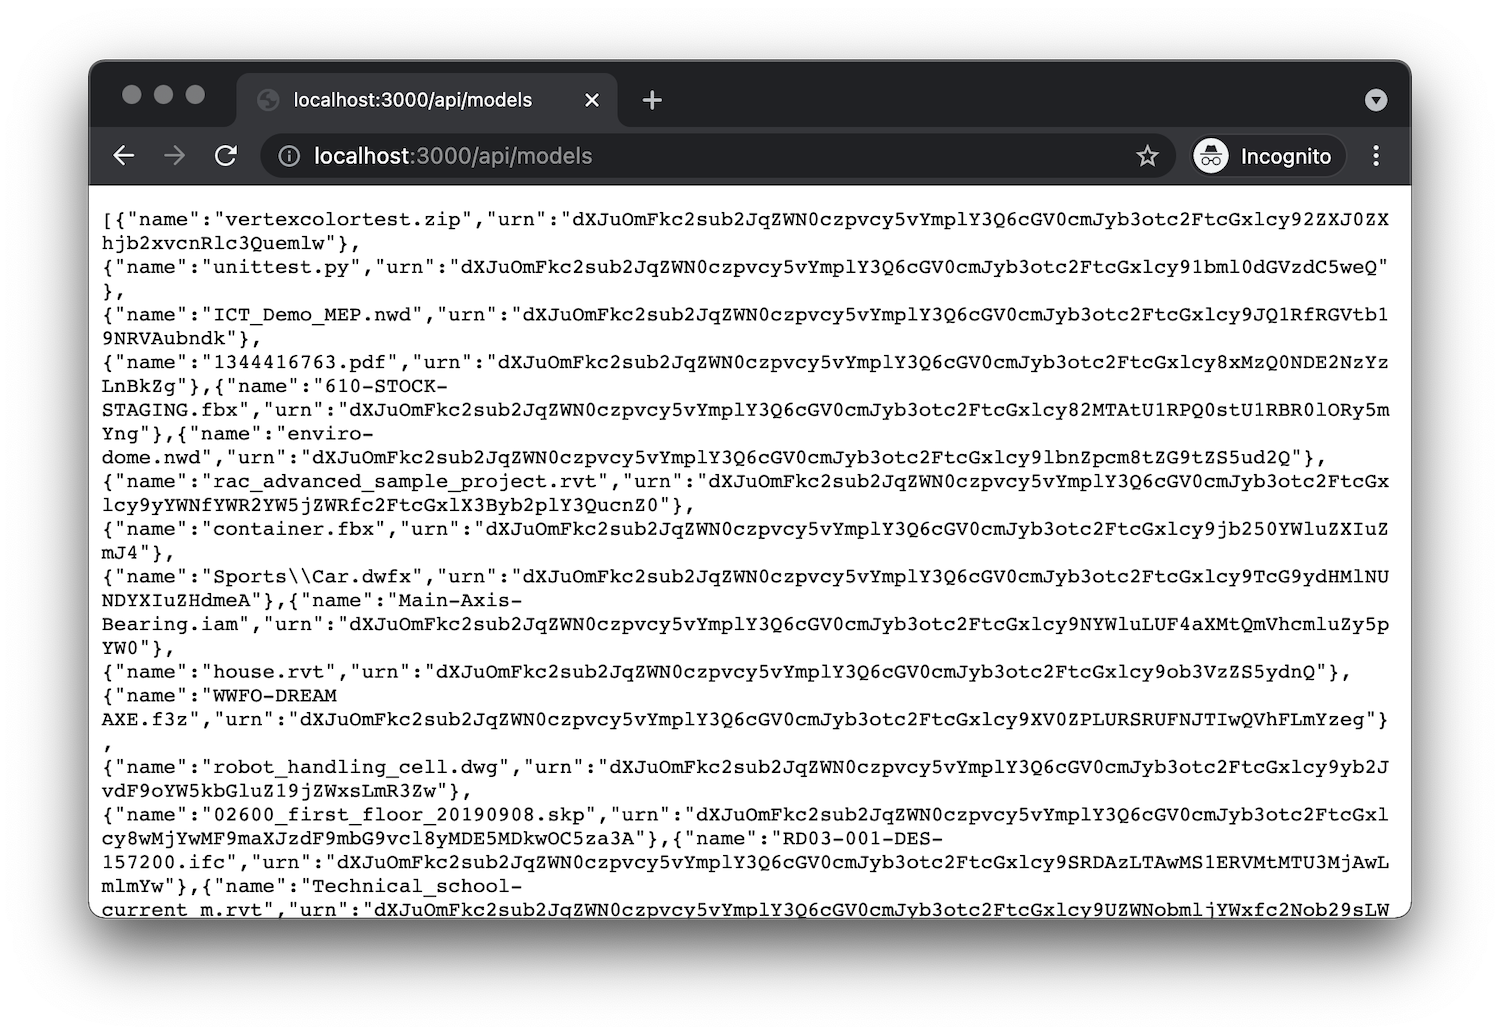
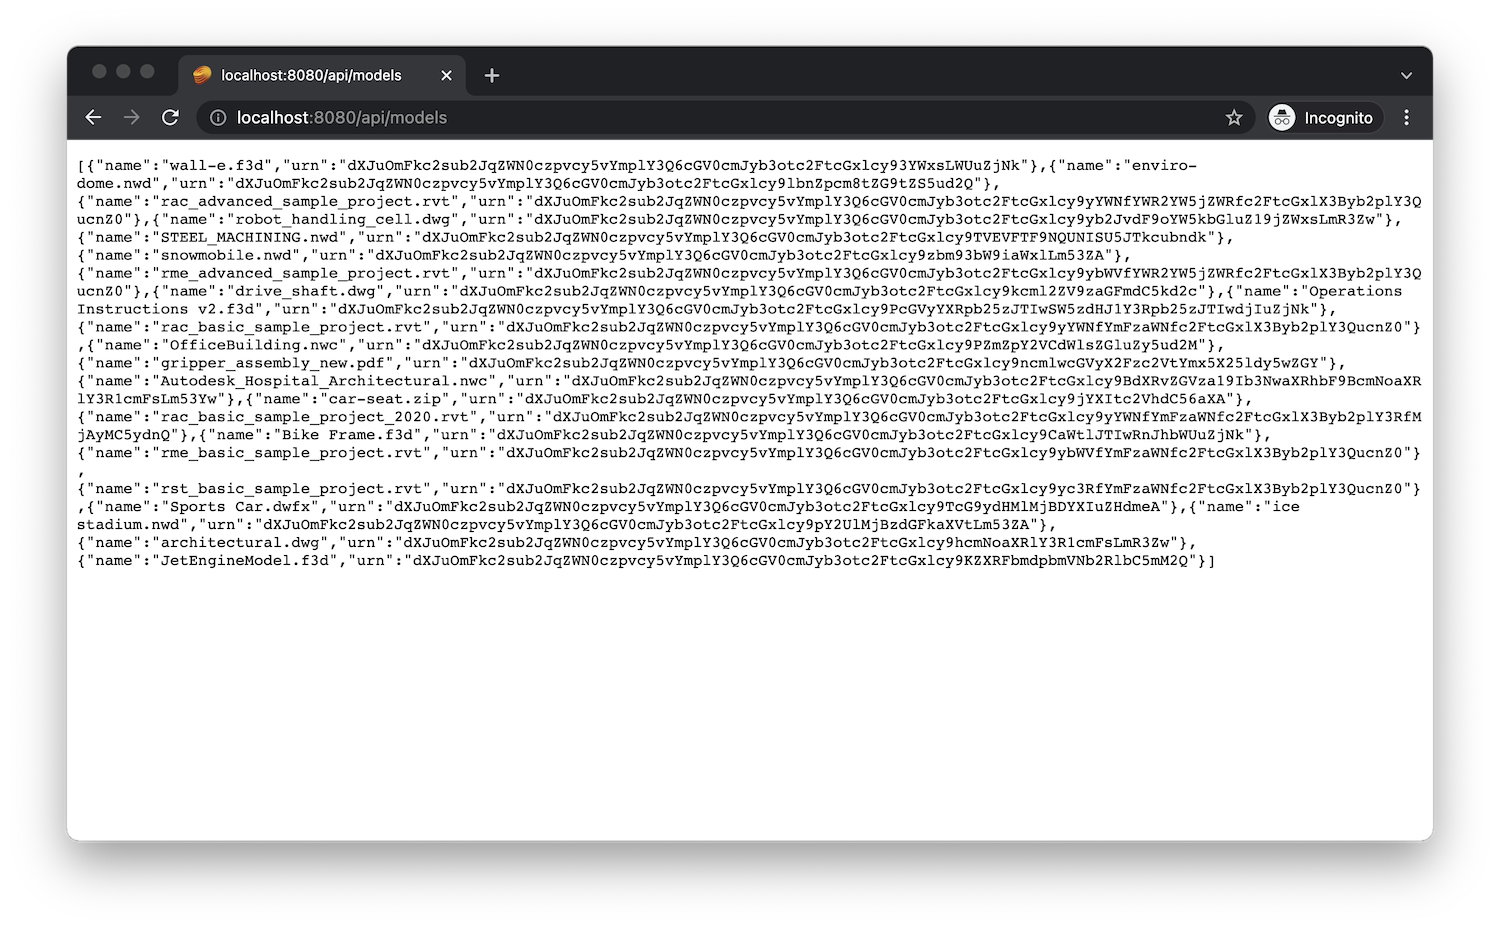
Updated SimpleViewer/Node.js tutorial.

Changed region(s): [[0.0307, 0.0312, 0.9813, 0.9053]]

diff --git a/docs/tutorials/simple-viewer/nodejs-vscode/03-models.md b/docs/tutorials/simple-viewer/nodejs-vscode/03-models.md
@@ -16,7 +16,6 @@ is available, and use it in other parts of the server app.
 Let's update the `services/forge.js` file:
 
 ```js title="services/forge.js"
-const fs = require('fs');
 // highlight-start
 const { AuthClientTwoLegged, BucketsApi } = require('forge-apis');
 const { FORGE_CLIENT_ID, FORGE_CLIENT_SECRET, FORGE_BUCKET } = require('../config.js');
@@ -40,13 +39,12 @@ async function getPublicToken() {
 }
 
 // highlight-start
-async function ensureBucketExists() {
-    const token = await getInternalToken();
+async function ensureBucketExists(bucketKey) {
     try {
-        await new BucketsApi().getBucketDetails(BUCKET, null, token);
+        await new BucketsApi().getBucketDetails(bucketKey, null, await getInternalToken());
     } catch (err) {
         if (err.statusCode === 404) {
-            await new BucketsApi().createBucket({ bucketKey: BUCKET, policyKey: 'temporary' }, {}, null, token);
+            await new BucketsApi().createBucket({ bucketKey, policyKey: 'temporary' }, {}, null, await getInternalToken());
         } else {
             throw err;
         }
@@ -69,9 +67,9 @@ Now, let's add two more functions in `services/forge.js` that will be used to li
 all objects in the preconfigured bucket, and to upload files to this bucket:
 
 ```js title="services/forge.js"
-const fs = require('fs');
 // highlight-start
-const { AuthClientTwoLegged, BucketsApi, ObjectsApi } = require('forge-apis');
+const fs = require('fs');
+const { AuthClientTwoLegged, BucketsApi, ObjectsApi, DerivativesApi } = require('forge-apis');
 // highlight-end
 const { FORGE_CLIENT_ID, FORGE_CLIENT_SECRET, FORGE_BUCKET } = require('../config.js');
 
@@ -127,10 +125,10 @@ async function uploadObject(objectName, filePath) {
 
 module.exports = {
     getPublicToken,
-// highlight-start
+    // highlight-start
     listObjects,
     uploadObject,
-// highlight-end
+    // highlight-end
 };
 ```
 
@@ -145,7 +143,7 @@ from the uploaded files - for example, 2D drawings, 3D geometry, and metadata - 
 into the Forge Viewer component in our HTML page. To do so, we will need to start a new conversion job
 in the [Model Derivative](https://forge.autodesk.com/en/docs/model-derivative/v2/developers_guide/overview)
 service, and checking the status of the conversion. Also, the Model Derivative service requires all IDs
-we use in the API calls to be [base64](https://cs.wikipedia.org/wiki/Base64)-encoded, so we include a small
+we use in the API calls to be [base64](https://wikipedia.org/wiki/Base64)-encoded, so we include a small
 utility function that will help with that.
 
 :::info
@@ -245,11 +243,11 @@ module.exports = {
     getPublicToken,
     listObjects,
     uploadObject,
-// highlight-start
+    // highlight-start
     translateObject,
     getManifest,
-    urnify,
-// highlight-end
+    urnify
+    // highlight-end
 };
 ```
 
@@ -324,8 +322,9 @@ module.exports = router;
 ```
 
 :::info
-The `formidable()` middleware used in the `POST` request handler will make sure that any `multipart/form-data` content
-coming with the request is parsed and available in the `req.files` and `req.fields` properties.
+The `formidable()` middleware used in the `POST` request handler will make sure that
+any `multipart/form-data` content coming with the request is parsed and available
+in the `req.files` and `req.fields` properties.
 :::
 
 And mount the router to our server application by modifying `server.js`:
@@ -335,15 +334,11 @@ const express = require('express');
 const { PORT } = require('./config.js');
 
 let app = express();
-app.use(express.static('public'));
+app.use(express.static('wwwroot'));
 app.use('/api/auth', require('./routes/auth.js'));
 // highlight-start
 app.use('/api/models', require('./routes/models.js'));
 // highlight-end
-app.use(function (err, req, res, next) {
-    console.error(err);
-    res.status(500).send(err.message);
-});
 app.listen(PORT, function () { console.log(`Server listening on port ${PORT}...`); });
 ```
 
@@ -366,7 +361,7 @@ export FORGE_BUCKET=your-custom-bucket-name
 npm start
 ```
 
-When you navigate to [http://localhost:3000/api/models](http://localhost:3000/api/models)
+When you navigate to [http://localhost:8080/api/models](http://localhost:8080/api/models)
 in the browser, the server should respond with a JSON list with names and URNs of all objects
 available in your configured bucket. If you are getting started, you may get a JSON response
 with an empty array (`[]`) which is expected. In the screenshot below we can already see a couple

diff --git a/docs/tutorials/simple-viewer/nodejs-vscode/01-server.md b/docs/tutorials/simple-viewer/nodejs-vscode/01-server.md
@@ -39,11 +39,9 @@ with slightly different version numbers):
 
 Finally, let's create a couple more subfolders in the project folder that we're going to need later:
 
-- `public` - this is where we're going to put all the client side assets (HTML, CSS, JavaScript, images, etc.)
+- `wwwroot` - this is where we're going to put all the client side assets (HTML, CSS, JavaScript, images, etc.)
 - `routes` - this is where we're going to implement all the server endpoints
 - `services` - here we're going to keep all the server-side logic that can be shared by different endpoints
-
-![Folder Structure](./folder-structure.png)
 
 ## Application config
 
@@ -61,7 +59,7 @@ if (!FORGE_CLIENT_ID || !FORGE_CLIENT_SECRET) {
     process.exit(1);
 }
 FORGE_BUCKET = FORGE_BUCKET || `${FORGE_CLIENT_ID.toLowerCase()}-basic-app`;
-PORT = PORT || 3000;
+PORT = PORT || 8080;
 
 module.exports = {
     FORGE_CLIENT_ID,
@@ -91,11 +89,7 @@ const express = require('express');
 const { PORT } = require('./config.js');
 
 let app = express();
-app.use(express.static('public'));
-app.use(function (err, req, res, next) {
-    console.error(err);
-    res.status(500).send(err.message);
-});
+app.use(express.static('wwwroot'));
 app.listen(PORT, function () { console.log(`Server listening on port ${PORT}...`); });
 ```
 
@@ -124,7 +118,7 @@ export FORGE_CLIENT_SECRET=your-own-forge-client-secret
 npm start
 ```
 
-Then open your browser and navigate to [http://localhost:3000](http://localhost:3000).
+Then open your browser and navigate to [http://localhost:8080](http://localhost:8080).
 The server should respond with `Cannot GET /` because we haven't added any logic to it just yet.
 
 ![Empty Response](./empty-response.png)

diff --git a/docs/tutorials/simple-viewer/nodejs-vscode/02-auth.md b/docs/tutorials/simple-viewer/nodejs-vscode/02-auth.md
@@ -21,7 +21,6 @@ all the Forge-specific logic that will be used in different areas of our server 
 Let's start by adding the following code to the file:
 
 ```js title="services/forge.js"
-const fs = require('fs');
 const { AuthClientTwoLegged } = require('forge-apis');
 const { FORGE_CLIENT_ID, FORGE_CLIENT_SECRET } = require('../config.js');
 
@@ -86,14 +85,10 @@ const express = require('express');
 const { PORT } = require('./config.js');
 
 let app = express();
-app.use(express.static('public'));
+app.use(express.static('wwwroot'));
 // highlight-start
 app.use('/api/auth', require('./routes/auth.js'));
 // highlight-end
-app.use(function (err, req, res, next) {
-    console.error(err);
-    res.status(500).send(err.message);
-});
 app.listen(PORT, function () { console.log(`Server listening on port ${PORT}...`); });
 ```
 
@@ -113,7 +108,7 @@ export FORGE_CLIENT_SECRET=your-own-forge-client-secret
 npm start
 ```
 
-If the application starts successfully and you navigate to [http://localhost:3000/api/auth/token](http://localhost:3000/api/auth/token)
+If the application starts successfully and you navigate to [http://localhost:8080/api/auth/token](http://localhost:8080/api/auth/token)
 in the browser, the server should respond with a JSON object containing the access token data.
 
 ![Server Response](./auth-response.png)
